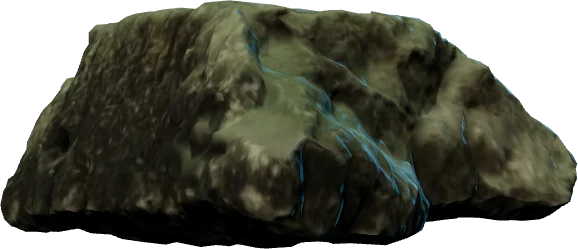
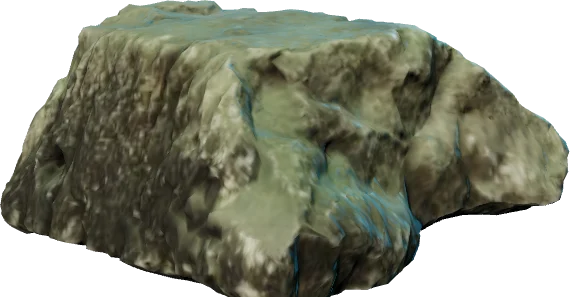
Seabed plants sway, boulders brighter and only on gentle ground, painted bounce-pad art (moon jelly, anemone)
Props check for rock under both ends within a per-group reach.

diff --git a/game/level/LevelGenerator.js b/game/level/LevelGenerator.js
@@ -58,22 +58,24 @@ const HAZARDS = {
 /**
  * Scenery on the seabed, rendered from CC0 models (public/img/props/). Per group:
  * texture keys, display width range (px), how much of its height sinks into the
- * ground (rock must lie under both ends), the steepest floor it stands on (radians), its depth (behind the rock
- * = half buried, the rock in front hides the keel) and at most how many per chunk.
+ * ground, how far below that rock must lie under both ends (`reach`, share of the height),
+ * the steepest floor it stands on (radians), its depth (behind the rock
+ * = half buried, the rock in front hides the keel), at most how many per chunk, and
+ * `sway` for plants (rooted, swaying with the water and pushed aside by the fish).
  */
 export const PROPS = {
-    boulder: { keys: ['boulder_1', 'boulder_2', 'boulder_3', 'boulder_4', 'boulder_5', 'boulder_6'], width: [200, 460], sink: 0.2, flat: 0.7, depth: -1, max: 2 },
-    barrel: { keys: ['barrel_1', 'barrel_2'], width: [110, 170], sink: 0.14, flat: 0.45, depth: -1, max: 2 },
-    crate: { keys: ['crate_1'], width: [130, 190], sink: 0.12, flat: 0.35, depth: -1, max: 1 },
+    boulder: { keys: ['boulder_1', 'boulder_2', 'boulder_3', 'boulder_4', 'boulder_5', 'boulder_6'], width: [200, 460], sink: 0.2, reach: 0.15, flat: 0.4, depth: -1, max: 2 },
+    barrel: { keys: ['barrel_1', 'barrel_2'], width: [110, 170], sink: 0.14, reach: 0.15, flat: 0.45, depth: -1, max: 2 },
+    crate: { keys: ['crate_1'], width: [130, 190], sink: 0.12, reach: 0.15, flat: 0.35, depth: -1, max: 1 },
     // Hulls share one slot per chunk, and only every third chunk column has one, so they never overlap.
-    wreck: { keys: ['wreck_1', 'wreck_2', 'wreck_3'], width: [1300, 1900], sink: 0.3, flat: 0.3, depth: -3, max: 1, slot: 'hull', every: 3, tint: 0xb6c6cc },
-    trawler: { keys: ['trawler_1', 'cutter_1'], width: [880, 1150], sink: 0.22, flat: 0.3, depth: -3, max: 1, slot: 'hull', every: 3, tint: 0xc4d0d4 },
-    rowboat: { keys: ['rowboat_1'], width: [420, 560], sink: 0.2, flat: 0.35, depth: -1, max: 1 },
-    // Generated art (FLUX.2 klein, Replicate), static plants between the swaying kelp.
-    seagrass: { keys: ['seagrass_1'], width: [220, 340], sink: 0.12, flat: 0.6, depth: -1, max: 2 },
-    seafan: { keys: ['seafan_1'], width: [200, 330], sink: 0.08, flat: 0.6, depth: -1, max: 1 },
-    anemone: { keys: ['anemone_1'], width: [130, 210], sink: 0.1, flat: 0.7, depth: -1, max: 2 },
-    kelpclump: { keys: ['kelp_2'], width: [170, 260], sink: 0.04, flat: 0.5, depth: -1, max: 2 }
+    wreck: { keys: ['wreck_1', 'wreck_2', 'wreck_3'], width: [1300, 1900], sink: 0.3, reach: 0.5, flat: 0.3, depth: -3, max: 1, slot: 'hull', every: 3, tint: 0xb6c6cc },
+    trawler: { keys: ['trawler_1', 'cutter_1'], width: [880, 1150], sink: 0.22, reach: 0.5, flat: 0.3, depth: -3, max: 1, slot: 'hull', every: 3, tint: 0xc4d0d4 },
+    rowboat: { keys: ['rowboat_1'], width: [420, 560], sink: 0.2, reach: 0.2, flat: 0.35, depth: -1, max: 1 },
+    // Generated art (FLUX.2 klein, Replicate): plants between the kelp stalks.
+    seagrass: { keys: ['seagrass_1'], width: [220, 340], sink: 0.12, reach: 0.2, flat: 0.6, depth: -1, max: 2, sway: 0.6 },
+    seafan: { keys: ['seafan_1'], width: [200, 330], sink: 0.08, reach: 0.2, flat: 0.6, depth: -1, max: 1, sway: 0.25 },
+    anemone: { keys: ['anemone_1'], width: [130, 210], sink: 0.1, reach: 0.2, flat: 0.7, depth: -1, max: 2, sway: 0.35 },
+    kelpclump: { keys: ['kelp_2'], width: [170, 260], sink: 0.04, reach: 0.2, flat: 0.5, depth: -1, max: 2, sway: 0.7 }
 };
 
 /** Painted kelp stalks (generated art, public/img/plants/); the procedural 'kelp' strip is the fallback. */
@@ -372,15 +374,28 @@ export default class LevelGenerator {
                 const tex = s.textures.get(key).getSourceImage();
                 const w = rng.realInRange(p.width[0], p.width[1]), h = w * tex.height / tex.width;
                 // Never floating: rock must lie under both ends, below the buried part.
-                const rockUnder = (x, y) => { for (let d = 0; d <= h * 0.5; d += 40) if (this.density(x, y + d) > T) return true; return false; };
+                const rockUnder = (x, y) => { for (let d = 0; d <= h * p.reach; d += 20) if (this.density(x, y + d) > T) return true; return false; };
                 const below = f => f.y + h * p.sink * 0.8;
                 const spot = floors.find(f => !f.prop && Math.abs(f.angle) < p.flat * (forced ? 2 : 1)
                     && rockUnder(f.x - w * 0.45, below(f)) && rockUnder(f.x + w * 0.45, below(f)));
                 if (!spot) continue;
                 spot.prop = true;
                 used[slot(group)] = (used[slot(group)] || 0) + 1;
+                const angle = spot.angle * 0.6;
+                if (p.sway) {
+                    // Rooted mesh: the middle sits half the visible height above the ground.
+                    const lift = h * (0.5 - p.sink);
+                    const plant = makeCritter(s, key, spot.x + Math.sin(angle) * lift, spot.y - Math.cos(angle) * lift, w, 'sway',
+                        { root: 'bottom', amp: p.sway, speed: rng.realInRange(0.5, 0.8), scaleY: h / tex.height });
+                    plant.setRotation(angle).setDepth(p.depth);
+                    plant.isPlant = true;
+                    plant.bend = 0;
+                    keep(plant);
+                    this.animated.push(plant);
+                    continue;
+                }
                 const img = keep(s.add.image(spot.x, spot.y, key).setOrigin(0.5, 1 - p.sink));
-                img.setScale(w / tex.width).setRotation(spot.angle * 0.6).setDepth(p.depth);
+                img.setScale(w / tex.width).setRotation(angle).setDepth(p.depth);
                 if (rng.frac() < 0.5) img.setFlipX(true);
                 if (p.tint) img.setTint(p.tint);
             }

diff --git a/scripts/props/render.html b/scripts/props/render.html
@@ -44,7 +44,8 @@ function weather(root, growth, tint) {
     });
 }
 
-window.renderModel = async ({ url, yaw = 90, pitch = 0, roll = 0, size = 1024, growth = 0.6, tint = '#c8c0b0', elev = 4, pick = null, hide = [] }) => {
+window.renderModel = async ({ url, yaw = 90, pitch = 0, roll = 0, size = 1024, growth = 0.6, tint = '#c8c0b0', elev = 4, pick = null, hide = [], exposure = 1.05 }) => {
+    renderer.toneMappingExposure = exposure;
     const gltf = cache[url] || (cache[url] = await new GLTFLoader().loadAsync(url));
     let model = gltf.scene.clone(true);
     const gone = [];

diff --git a/game/level/critters.js b/game/level/critters.js
@@ -58,7 +58,7 @@ export function makeCritter(scene, key, x, y, width, anim = 'wobble', opts = {})
             }
             obj.setDirty();
         } else if (anim === 'sway') {
-            const amp = obj.frame.width * 0.05;
+            const amp = obj.frame.width * 0.05 * (opts.amp ?? 1);
             const pts = obj.points, n = pts.length - 1;
             for (let i = 0; i <= n; i++) {
                 const f = opts.root === 'bottom' ? 1 - i / n : i / n;
